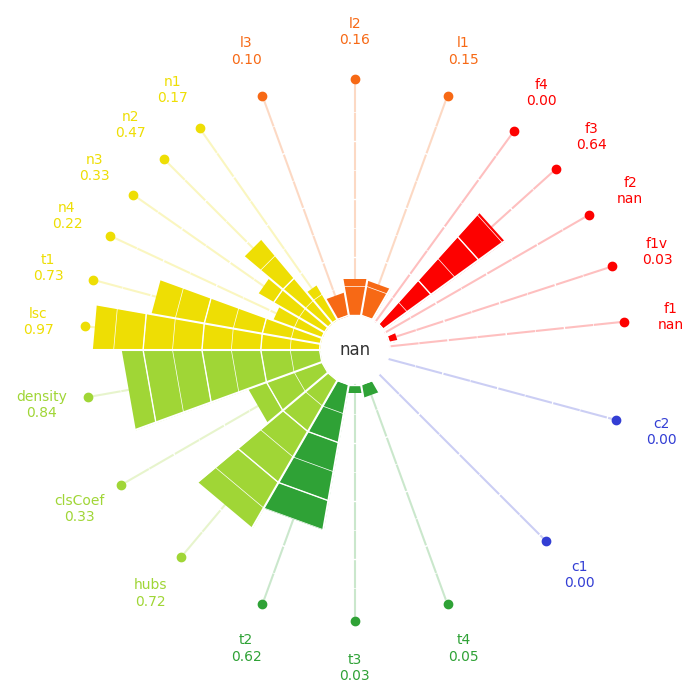
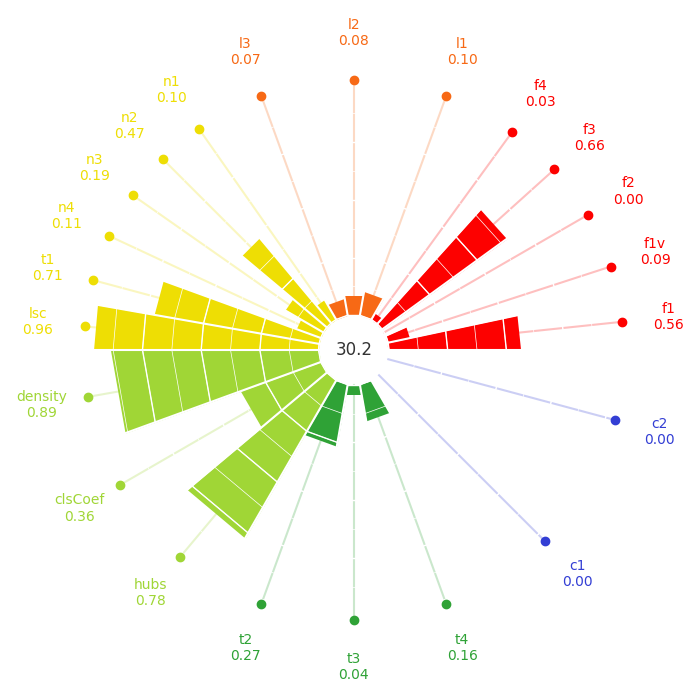
problexity working after conversion to float

diff --git a/problexity_test.py b/problexity_test.py
@@ -17,10 +17,10 @@ main_folder = 'results/Barbara_13_05_2022_AB_wavdec/'
 # main_folder = 'results/MK/'
 # filenames = ["features_MAV.csv","features_SSC.csv","features_VAR.csv","features_WL.csv","features_ZC.csv"]
 
-filename = "features_WL_MAV.csv"
-# filename = "features_ZC_MAV_SSC.csv"
-classes = [1,4,5]
-# classes = [1,3,4]
+# filename = "features_WL_MAV.csv"
+filename = "features_ZC_MAV_SSC.csv"
+# classes = [1,4,5]
+classes = [1,3,4]
 number_of_classes = len(classes)
 
 fig = plt.figure(figsize=(7,7))
